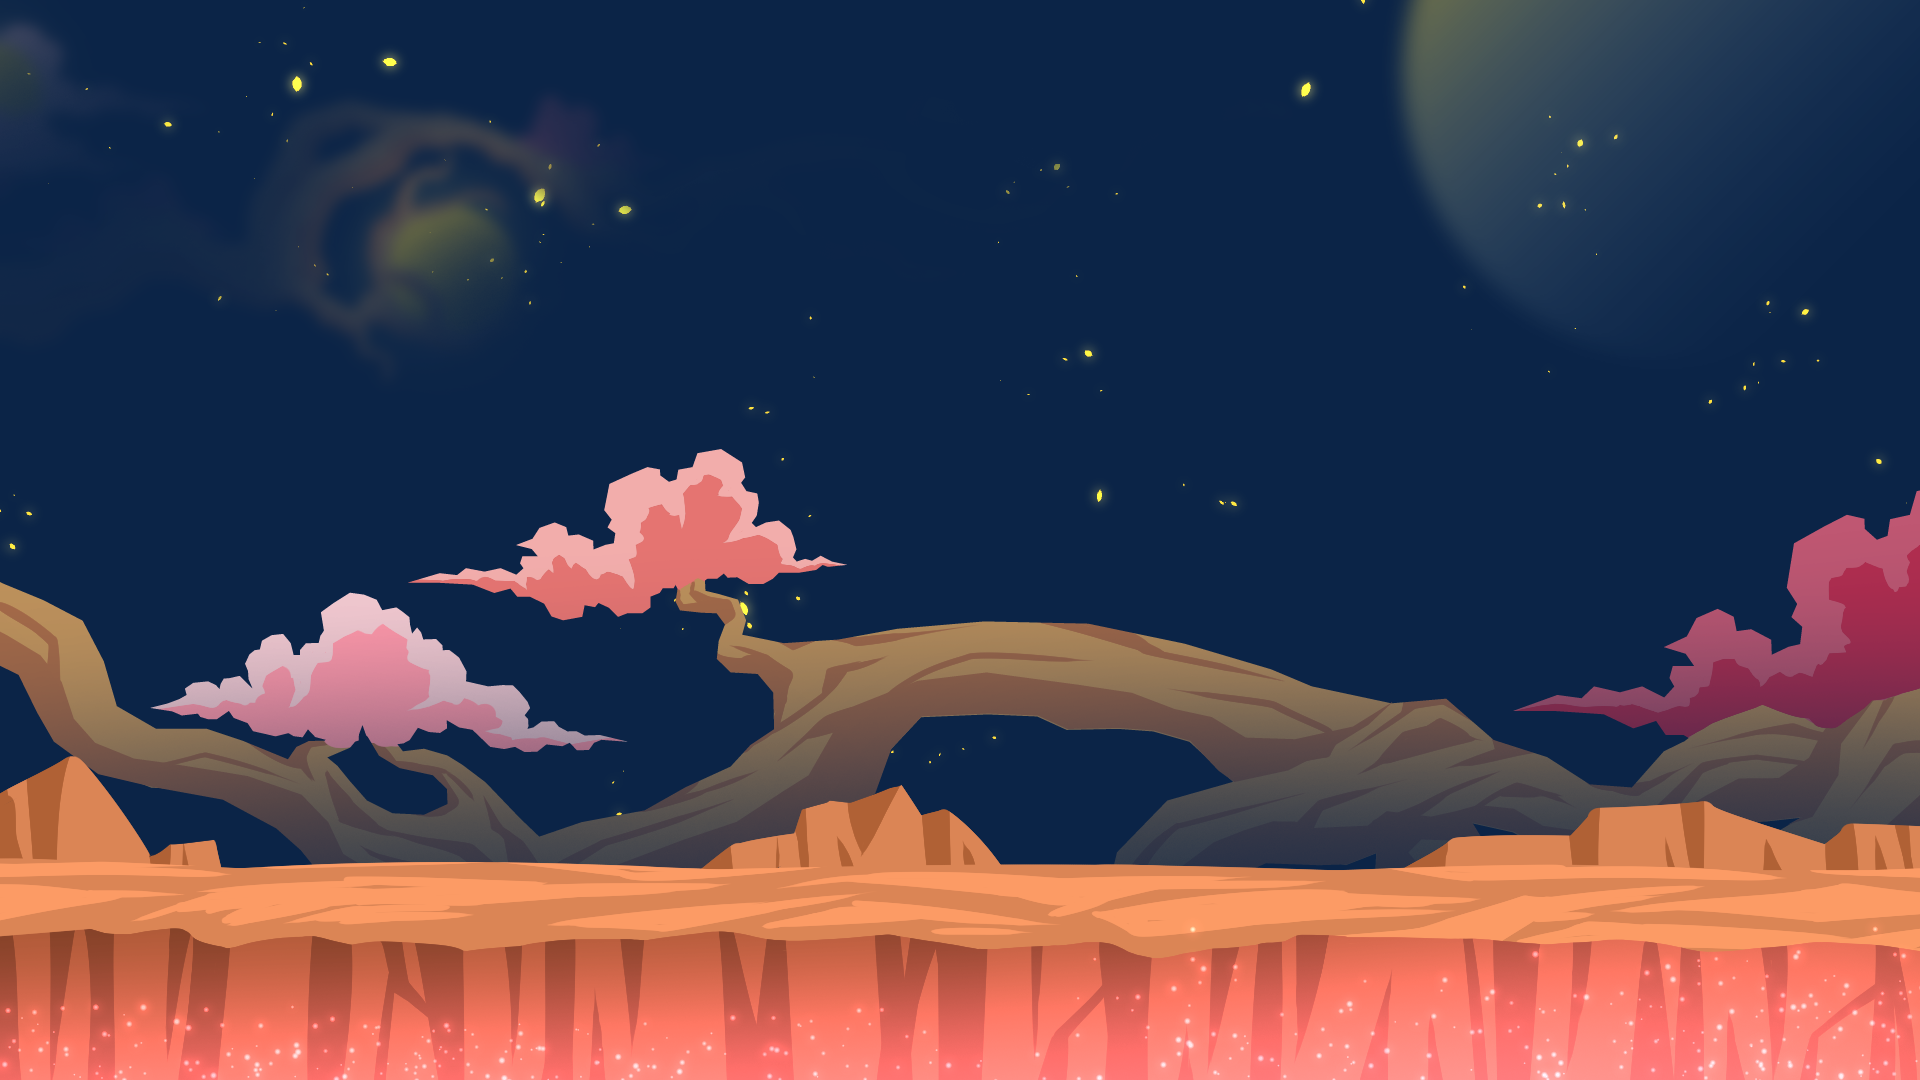
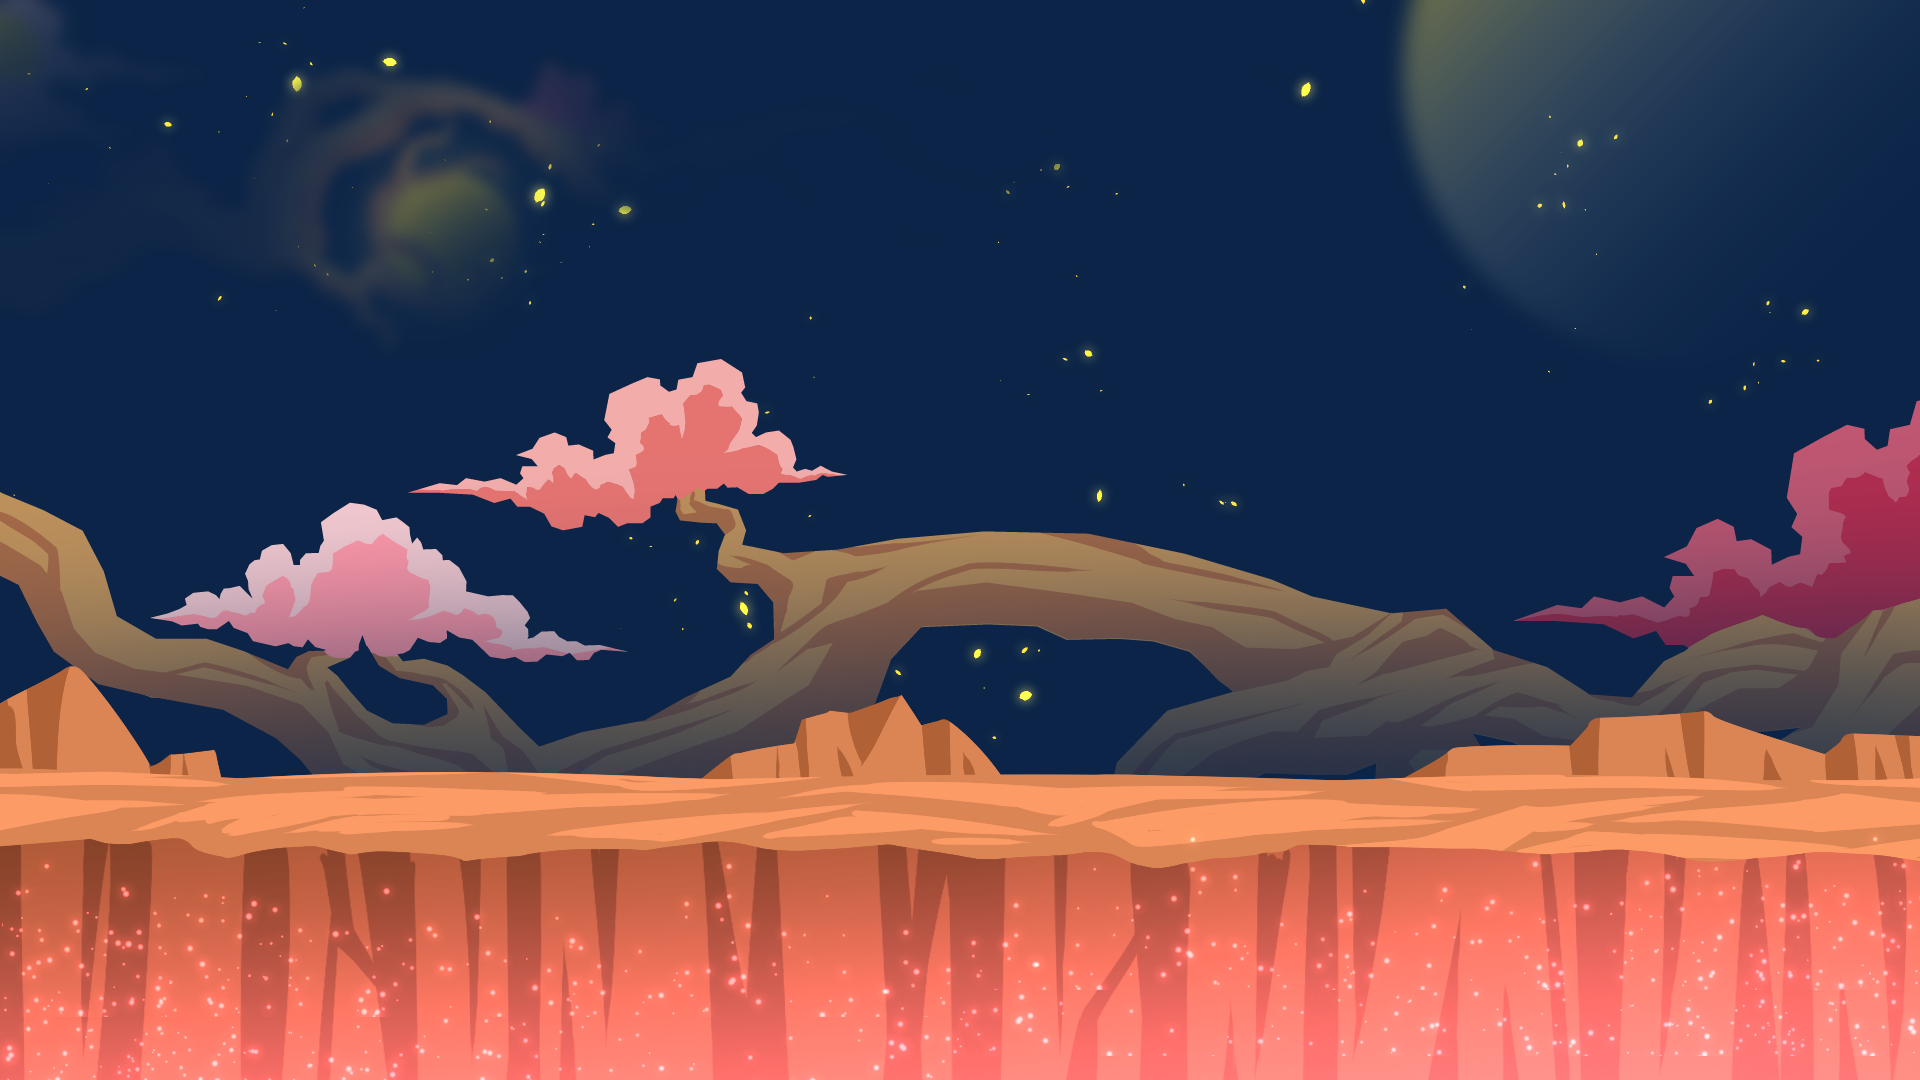
update bg

diff --git a/public/css/salvos.css b/public/css/salvos.css
@@ -1,16 +1,17 @@
-.py-4{
+.py-4 {
     padding: 0 !important;
-    overflow: hidden    ;
+    overflow: hidden;
 }
 
-.select2-container--default .select2-selection--single .select2-selection__rendered{
+.select2-container--default
+    .select2-selection--single
+    .select2-selection__rendered {
     color: #fff;
 }
-.select2-container--default .select2-selection--single{
+.select2-container--default .select2-selection--single {
     background: transparent !important;
-    color: #fff;;
+    color: #fff;
     margin-bottom: 8px;
-        
 }
 .select2-selection--single {
     width: 100%;
@@ -22,8 +23,10 @@
     border-radius: 10px !important;
 }
 
-.select2-container--default.select2-container--open.select2-container--below .select2-selection--single,
-.select2-container--default.select2-container--open.select2-container--below .select2-selection--multiple {
+.select2-container--default.select2-container--open.select2-container--below
+    .select2-selection--single,
+.select2-container--default.select2-container--open.select2-container--below
+    .select2-selection--multiple {
     border-bottom-left-radius: 0 !important;
     border-bottom-right-radius: 0 !important;
 }
@@ -33,7 +36,6 @@
     border-top-left-radius: 0 !important;
     border-top-right-radius: 0 !important;
 }
-
 
 .actionbar {
     animation: actionBarUp 1s cubic-bezier(0.68, -0.55, 0.265, 1.55) normal forwards;
@@ -77,12 +79,12 @@
     background-color: #ddd;
     color: black;
 }
-.krona{
+.krona {
     width: 30px;
     height: 30px;
 }
-.krona-icon{
-    margin-right:5px;
+.krona-icon {
+    margin-right: 5px;
 }
 .monster {
     animation: MoveUpDown 2s cubic-bezier(0.68, -0.55, 0.265, 1.55) infinite;
@@ -107,7 +109,7 @@
 }
 
 .image-background {
-    background-image: url('../img/salvos/bg_battle fixed.png');
+    background-image: url("../img/salvos/bg_battle.png");
     background-position: center;
     background-size: cover;
     width: 100%;
@@ -126,11 +128,11 @@
     bottom: 105px;
 }
 
-.player-desc{
+.player-desc {
     padding-top: 11px;
 }
 
-.slash{
+.slash {
     position: absolute;
     width: 100px;
     left: 300px;
@@ -138,8 +140,7 @@
     animation: slashAnimation ease-in-out 2.5s alternate;
 }
 
-
-.fireball{
+.fireball {
     position: absolute;
     width: 500px;
     right: 300px;
@@ -147,27 +148,26 @@
     animation: fireballAnimation ease-in-out 2.5s alternate;
 }
 
-.button-salvos{
+.button-salvos {
     border-radius: 10px;
     background-color: #19376d;
     color: #a5d7e8;
     padding: 10px 5px;
-    
 }
 
-.button-salvos:hover{
-    background-color: #19376d;   
+.button-salvos:hover {
+    background-color: #19376d;
     /* width: ;  */
 }
 
-.none{
+.none {
     display: none;
 }
 
-.bi-bandaid{
+.bi-bandaid {
     color: #fff;
 }
-.container-modal{
+.container-modal {
     width: 500px;
     height: auto;
     background-color: #fff;
@@ -176,29 +176,28 @@
     border-radius: 20px;
     z-index: 1;
 }
-#modal-header{
+#modal-header {
     text-align: center;
-    border-top-left-radius:19px ;
-    border-top-right-radius:19px ;
+    border-top-left-radius: 19px;
+    border-top-right-radius: 19px;
 }
-#modal-footer{
+#modal-footer {
     gap: 50px;
 }
-#modal-header{
+#modal-header {
     padding: 10px;
     background-color: #19376d;
     color: #a5d7e8;
     letter-spacing: 2px;
 }
-.potion{
+.potion {
     width: 50px;
 }
-.icon{
+.icon {
     width: 30px;
     margin-right: 10px;
 }
 @keyframes MoveUpDown {
-
     0%,
     100% {
         bottom: 150px;
@@ -210,34 +209,34 @@
 }
 
 @keyframes slashAnimation {
-    0%{
-        transform: translate(0,0);
-    } 
-    33%{
+    0% {
+        transform: translate(0, 0);
+    }
+    33% {
         opacity: 1;
         visibility: visible;
-    } 
-    40%{
+    }
+    40% {
         opacity: 0;
     }
-    100%{
+    100% {
         opacity: 0;
         transform: translateX(2000px);
     }
 }
 
 @keyframes fireballAnimation {
-    0%{
-        transform: translate(0,0);
-    } 
-    33%{
+    0% {
+        transform: translate(0, 0);
+    }
+    33% {
         opacity: 1;
         visibility: visible;
-    } 
-    40%{
+    }
+    40% {
         opacity: 0;
     }
-    100%{
+    100% {
         opacity: 0;
         transform: translateX(-2500px);
     }
@@ -271,7 +270,7 @@
 }
 
 .health-label {
-    font-family: 'Montserrat', sans-serif;
+    font-family: "Montserrat", sans-serif;
     font-weight: bold;
     color: #fff;
     text-indent: 10px;

diff --git a/resources/views/salvos/home.blade.php b/resources/views/salvos/home.blade.php
@@ -4,7 +4,7 @@
     {{-- Bootstrap Select --}}
     <link href="https://cdn.jsdelivr.net/npm/select2@4.1.0-rc.0/dist/css/select2.min.css" rel="stylesheet" />
     <script src="https://cdn.jsdelivr.net/npm/select2@4.1.0-rc.0/dist/js/select2.min.js"></script>
-    <link rel="stylesheet" href="https://cdn.jsdelivr.net/npm/bootstrap-icons@1.3.0/font/bootstrap-icons.css">
+    {{-- <link rel="stylesheet" href="https://cdn.jsdelivr.net/npm/bootstrap-icons@1.3.0/font/bootstrap-icons.css"> --}}
     <link href="https://unpkg.com/nes.css@2.3.0/css/nes.min.css" rel="stylesheet" />
     <link rel="stylesheet" href="{{ asset('/css/treasure.css') }}">
     <link rel="stylesheet" href="{{ asset('/css/salvos.css') }}">
@@ -113,10 +113,6 @@
     </div>
     </div>
 
-    </div>
-    <!-- action bawah -->
-
-    </div>
 @endsection
 @section('script')
     <script>
